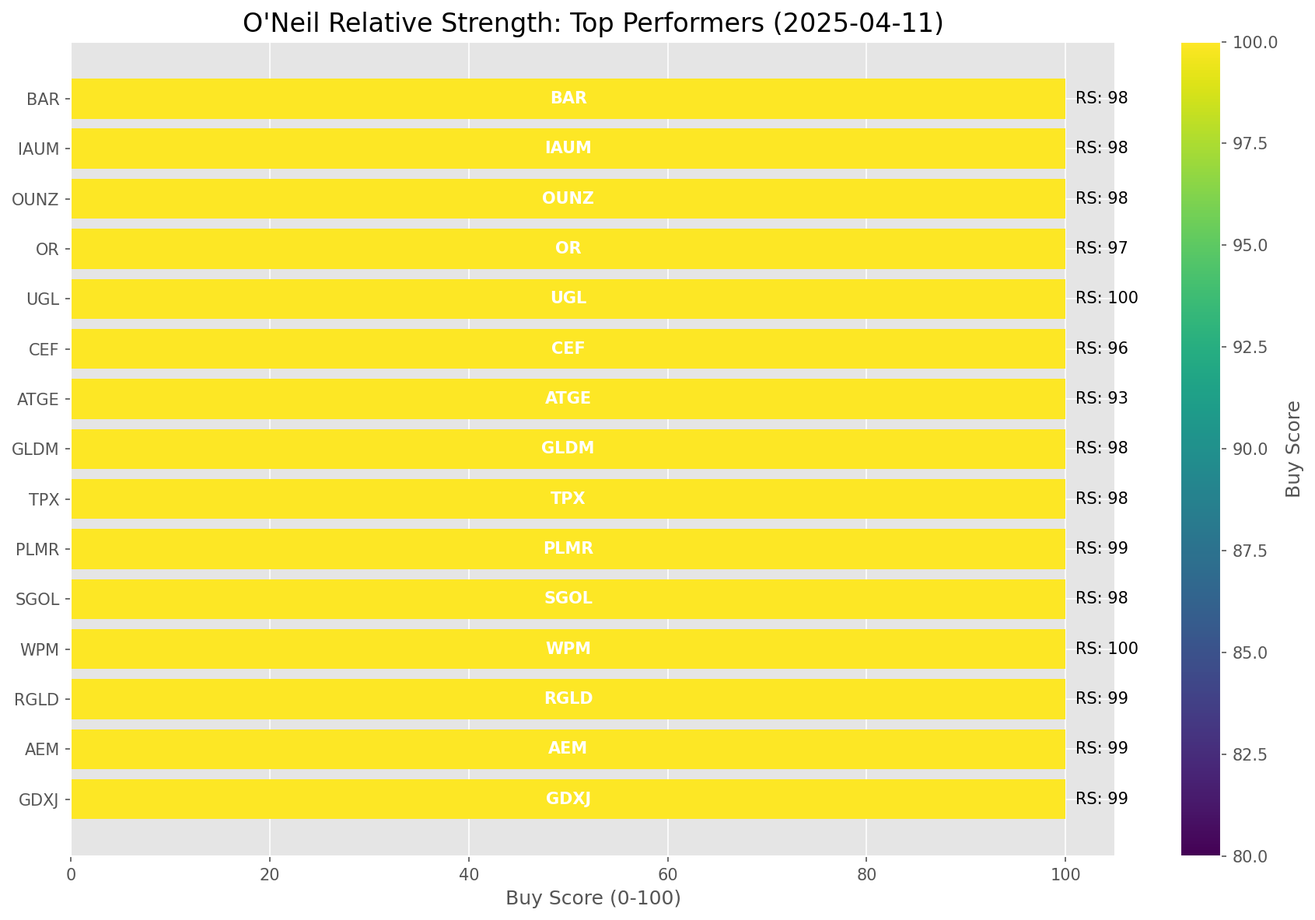
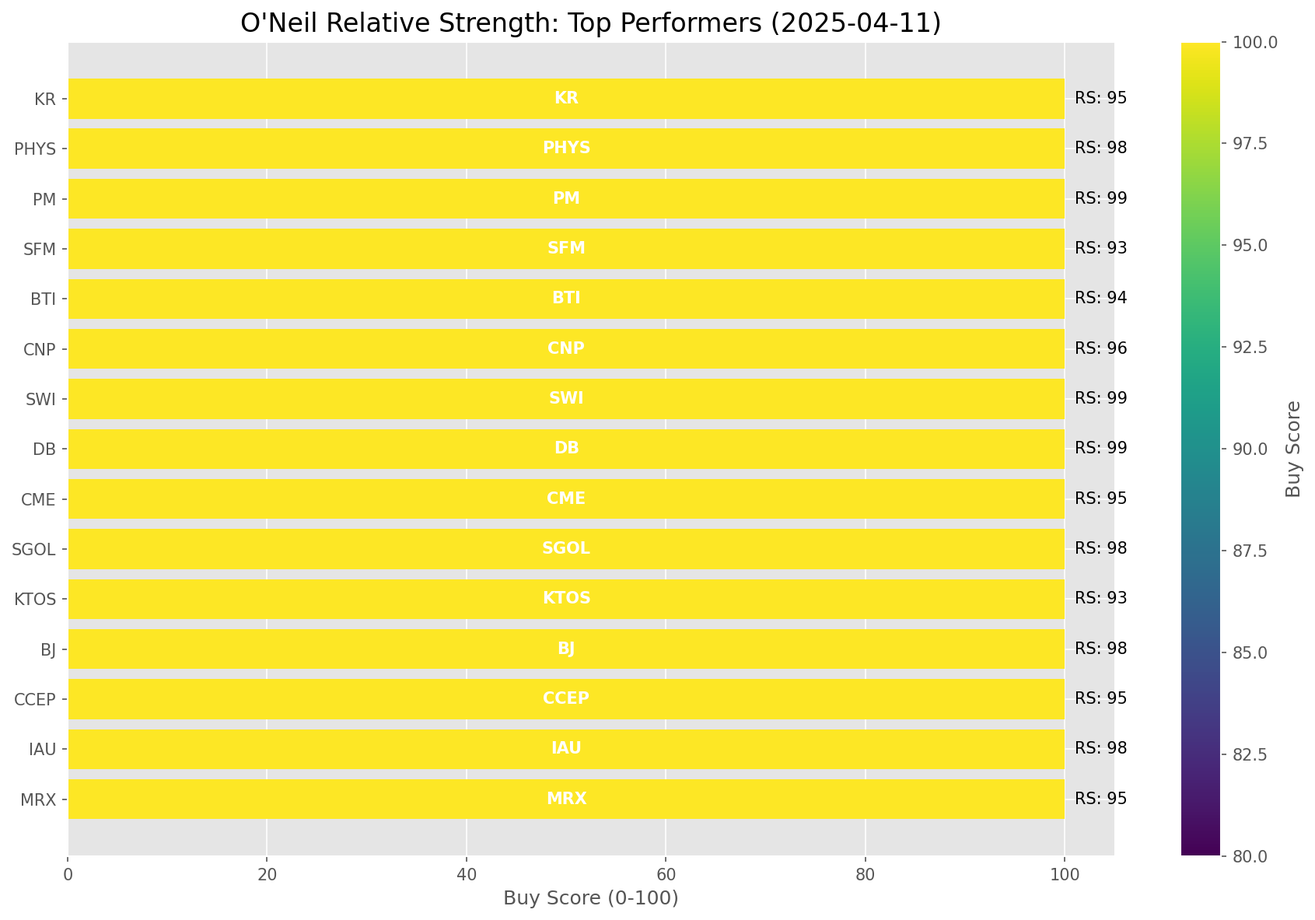
Add market report for 2025-04-11

diff --git a/oneil_relative_strength_report_2025-04-11.md b/oneil_relative_strength_report_2025-04-11.md
@@ -9,11 +9,11 @@
 | Metric | Value |
 |--------|-------|
 | **Market Valuation** | **Significantly Undervalued** |
-| **Current Ratio** | 8.60 |
+| **Current Ratio** | 8.70 |
 | **Historical Mean** | 9.69 |
 | **Standard Deviation** | 0.44 |
 | **Z-Score (StdDev from Mean)** | -2.33 |
-| **Total Market Cap** | $255.69 trillion |
+| **Total Market Cap** | $258.71 trillion |
 | **GDP** | $29.72 trillion |
 
 ## **Market Insights**
@@ -49,41 +49,41 @@ Based on William O'Neil's Relative Strength Methodology
 
 | ETF | Strength | RS Rating | Performance | Above Key MAs | Trend | Sector |
 |-----|----------|-----------|-------------|--------------|-------|--------|
-| [GLD](https://www.tradingview.com/chart/?symbol=GLD) | 99.0 | 98.0 | 21.38% | 10d ✓, 50d ✓, 200d ✓ | ↗ | Gold |
-| [SLV](https://www.tradingview.com/chart/?symbol=SLV) | 85.6 | 91.0 | 6.78% | 10d ✓, 50d ✗, 200d ✓ | ↗ | Silver |
-| [DBA](https://www.tradingview.com/chart/?symbol=DBA) | 68.2 | 76.0 | -1.36% | 10d ✗, 50d ✗, 200d ✓ | ↗ | Agriculture |
-| [KWEB](https://www.tradingview.com/chart/?symbol=KWEB) | 64.5 | 89.0 | 4.70% | 10d ✗, 50d ✗, 200d ✗ | ↗ | Chinese Internet |
-| [CIBR](https://www.tradingview.com/chart/?symbol=CIBR) | 63.9 | 68.0 | -4.71% | 10d ✓, 50d ✗, 200d ✗ | ↗ | Cybersecurity |
-| [XLP](https://www.tradingview.com/chart/?symbol=XLP) | 63.0 | 86.0 | 2.31% | 10d ✗, 50d ✗, 200d ✗ | ↗ | Consumer Staples |
-| [XLU](https://www.tradingview.com/chart/?symbol=XLU) | 57.5 | 75.0 | -1.80% | 10d ✗, 50d ✗, 200d ✗ | ↗ | Utilities |
-| [IYZ](https://www.tradingview.com/chart/?symbol=IYZ) | 54.0 | 68.0 | -5.13% | 10d ✗, 50d ✗, 200d ✗ | ↗ | Telecommunications |
-| [XLF](https://www.tradingview.com/chart/?symbol=XLF) | 53.0 | 66.0 | -5.92% | 10d ✗, 50d ✗, 200d ✗ | ↗ | Financial |
-| [IYR](https://www.tradingview.com/chart/?symbol=IYR) | 53.0 | 66.0 | -6.20% | 10d ✗, 50d ✗, 200d ✗ | ↗ | Real Estate |
-| [UUP](https://www.tradingview.com/chart/?symbol=UUP) | 51.5 | 63.0 | -7.21% | 10d ✗, 50d ✗, 200d ✗ | ↗ | U.S. Dollar |
-| [XLC](https://www.tradingview.com/chart/?symbol=XLC) | 51.0 | 62.0 | -7.61% | 10d ✗, 50d ✗, 200d ✗ | ↗ | Communications |
-| [XLI](https://www.tradingview.com/chart/?symbol=XLI) | 51.0 | 62.0 | -7.68% | 10d ✗, 50d ✗, 200d ✗ | ↗ | Industrial |
-| [BIL](https://www.tradingview.com/chart/?symbol=BIL) | 50.4 | 81.0 | 0.04% | 10d ✓, 50d ✗, 200d ✗ | ↘ | Short-term Treasuries |
-| [PAVE](https://www.tradingview.com/chart/?symbol=PAVE) | 43.5 | 47.0 | -12.95% | 10d ✗, 50d ✗, 200d ✗ | ↗ | Infrastructure |
-| [AIQ](https://www.tradingview.com/chart/?symbol=AIQ) | 43.0 | 46.0 | -13.62% | 10d ✗, 50d ✗, 200d ✗ | ↗ | Artificial Intelligence & Technology |
-| [IYT](https://www.tradingview.com/chart/?symbol=IYT) | 41.0 | 42.0 | -15.05% | 10d ✗, 50d ✗, 200d ✗ | ↗ | Transportation |
+| [GLD](https://www.tradingview.com/chart/?symbol=GLD) | 99.0 | 98.0 | 21.59% | 10d ✓, 50d ✓, 200d ✓ | ↗ | Gold |
+| [SLV](https://www.tradingview.com/chart/?symbol=SLV) | 85.1 | 90.0 | 6.97% | 10d ✓, 50d ✗, 200d ✓ | ↗ | Silver |
+| [XLP](https://www.tradingview.com/chart/?symbol=XLP) | 72.9 | 86.0 | 3.33% | 10d ✓, 50d ✗, 200d ✗ | ↗ | Consumer Staples |
+| [DBA](https://www.tradingview.com/chart/?symbol=DBA) | 68.2 | 76.0 | -1.06% | 10d ✗, 50d ✗, 200d ✓ | ↗ | Agriculture |
+| [CIBR](https://www.tradingview.com/chart/?symbol=CIBR) | 64.4 | 69.0 | -3.96% | 10d ✓, 50d ✗, 200d ✗ | ↗ | Cybersecurity |
+| [IYZ](https://www.tradingview.com/chart/?symbol=IYZ) | 64.2 | 68.0 | -4.35% | 10d ✗, 50d ✗, 200d ✓ | ↗ | Telecommunications |
+| [KWEB](https://www.tradingview.com/chart/?symbol=KWEB) | 64.0 | 88.0 | 5.18% | 10d ✗, 50d ✗, 200d ✗ | ↗ | Chinese Internet |
+| [XLU](https://www.tradingview.com/chart/?symbol=XLU) | 58.5 | 77.0 | -0.54% | 10d ✗, 50d ✗, 200d ✗ | ↗ | Utilities |
+| [IYR](https://www.tradingview.com/chart/?symbol=IYR) | 53.5 | 67.0 | -5.02% | 10d ✗, 50d ✗, 200d ✗ | ↗ | Real Estate |
+| [XLF](https://www.tradingview.com/chart/?symbol=XLF) | 53.5 | 67.0 | -5.02% | 10d ✗, 50d ✗, 200d ✗ | ↗ | Financial |
+| [XLI](https://www.tradingview.com/chart/?symbol=XLI) | 51.0 | 62.0 | -6.79% | 10d ✗, 50d ✗, 200d ✗ | ↗ | Industrial |
+| [XLC](https://www.tradingview.com/chart/?symbol=XLC) | 51.0 | 62.0 | -6.76% | 10d ✗, 50d ✗, 200d ✗ | ↗ | Communications |
+| [UUP](https://www.tradingview.com/chart/?symbol=UUP) | 50.5 | 61.0 | -7.19% | 10d ✗, 50d ✗, 200d ✗ | ↗ | U.S. Dollar |
+| [BIL](https://www.tradingview.com/chart/?symbol=BIL) | 49.4 | 79.0 | 0.03% | 10d ✓, 50d ✗, 200d ✗ | ↘ | Short-term Treasuries |
+| [PAVE](https://www.tradingview.com/chart/?symbol=PAVE) | 44.0 | 48.0 | -12.21% | 10d ✗, 50d ✗, 200d ✗ | ↗ | Infrastructure |
+| [AIQ](https://www.tradingview.com/chart/?symbol=AIQ) | 43.0 | 46.0 | -12.80% | 10d ✗, 50d ✗, 200d ✗ | ↗ | Artificial Intelligence & Technology |
+| [TLT](https://www.tradingview.com/chart/?symbol=TLT) | 40.0 | 80.0 | 0.08% | 10d ✗, 50d ✗, 200d ✗ | ↘ | Long-term Treasuries |
+| [IYT](https://www.tradingview.com/chart/?symbol=IYT) | 40.0 | 40.0 | -15.05% | 10d ✗, 50d ✗, 200d ✗ | ↗ | Transportation |
 | [ARKF](https://www.tradingview.com/chart/?symbol=ARKF) | 39.0 | 38.0 | -16.38% | 10d ✗, 50d ✗, 200d ✗ | ↗ | Fintech Innovation |
-| [TLT](https://www.tradingview.com/chart/?symbol=TLT) | 38.5 | 77.0 | -0.94% | 10d ✗, 50d ✗, 200d ✗ | ↘ | Long-term Treasuries |
-| [XLY](https://www.tradingview.com/chart/?symbol=XLY) | 38.0 | 36.0 | -17.24% | 10d ✗, 50d ✗, 200d ✗ | ↗ | Consumer Discretionary |
-| [XLK](https://www.tradingview.com/chart/?symbol=XLK) | 38.0 | 36.0 | -17.27% | 10d ✗, 50d ✗, 200d ✗ | ↗ | Technology |
-| [DBC](https://www.tradingview.com/chart/?symbol=DBC) | 35.0 | 70.0 | -4.08% | 10d ✗, 50d ✗, 200d ✗ | ↘ | Commodities |
-| [ARKW](https://www.tradingview.com/chart/?symbol=ARKW) | 35.0 | 30.0 | -20.02% | 10d ✗, 50d ✗, 200d ✗ | ↗ | Next Generation Internet |
-| [XLV](https://www.tradingview.com/chart/?symbol=XLV) | 34.5 | 69.0 | -4.42% | 10d ✗, 50d ✗, 200d ✗ | ↘ | Healthcare |
-| [ICLN](https://www.tradingview.com/chart/?symbol=ICLN) | 34.5 | 69.0 | -4.60% | 10d ✗, 50d ✗, 200d ✗ | ↘ | Clean Energy |
-| [BLOK](https://www.tradingview.com/chart/?symbol=BLOK) | 34.0 | 28.0 | -20.87% | 10d ✗, 50d ✗, 200d ✗ | ↗ | Blockchain & Cryptocurrency |
-| [XLB](https://www.tradingview.com/chart/?symbol=XLB) | 31.5 | 63.0 | -6.97% | 10d ✗, 50d ✗, 200d ✗ | ↘ | Materials |
-| [ARKK](https://www.tradingview.com/chart/?symbol=ARKK) | 30.0 | 20.0 | -25.30% | 10d ✗, 50d ✗, 200d ✗ | ↗ | Innovation |
-| [JETS](https://www.tradingview.com/chart/?symbol=JETS) | 28.0 | 16.0 | -28.89% | 10d ✗, 50d ✗, 200d ✗ | ↗ | Airlines |
-| [URA](https://www.tradingview.com/chart/?symbol=URA) | 24.4 | 29.0 | -20.65% | 10d ✓, 50d ✗, 200d ✗ | ↘ | Uranium |
-| [XLE](https://www.tradingview.com/chart/?symbol=XLE) | 22.5 | 45.0 | -13.71% | 10d ✗, 50d ✗, 200d ✗ | ↘ | Energy |
-| [ARKG](https://www.tradingview.com/chart/?symbol=ARKG) | 22.4 | 25.0 | -22.53% | 10d ✓, 50d ✗, 200d ✗ | ↘ | Genomics |
-| [IBB](https://www.tradingview.com/chart/?symbol=IBB) | 19.5 | 39.0 | -16.01% | 10d ✗, 50d ✗, 200d ✗ | ↘ | Biotechnology |
-| [ITB](https://www.tradingview.com/chart/?symbol=ITB) | 19.0 | 38.0 | -16.48% | 10d ✗, 50d ✗, 200d ✗ | ↘ | Home Construction |
-| [SOXX](https://www.tradingview.com/chart/?symbol=SOXX) | 10.0 | 20.0 | -25.51% | 10d ✗, 50d ✗, 200d ✗ | ↘ | Semiconductors |
+| [XLK](https://www.tradingview.com/chart/?symbol=XLK) | 39.0 | 38.0 | -16.29% | 10d ✗, 50d ✗, 200d ✗ | ↗ | Technology |
+| [XLY](https://www.tradingview.com/chart/?symbol=XLY) | 38.5 | 37.0 | -16.53% | 10d ✗, 50d ✗, 200d ✗ | ↗ | Consumer Discretionary |
+| [DBC](https://www.tradingview.com/chart/?symbol=DBC) | 35.0 | 70.0 | -3.64% | 10d ✗, 50d ✗, 200d ✗ | ↘ | Commodities |
+| [BLOK](https://www.tradingview.com/chart/?symbol=BLOK) | 35.0 | 30.0 | -19.93% | 10d ✗, 50d ✗, 200d ✗ | ↗ | Blockchain & Cryptocurrency |
+| [XLV](https://www.tradingview.com/chart/?symbol=XLV) | 35.0 | 70.0 | -3.57% | 10d ✗, 50d ✗, 200d ✗ | ↘ | Healthcare |
+| [ARKW](https://www.tradingview.com/chart/?symbol=ARKW) | 34.5 | 29.0 | -20.02% | 10d ✗, 50d ✗, 200d ✗ | ↗ | Next Generation Internet |
+| [ICLN](https://www.tradingview.com/chart/?symbol=ICLN) | 34.5 | 69.0 | -3.82% | 10d ✗, 50d ✗, 200d ✗ | ↘ | Clean Energy |
+| [XLB](https://www.tradingview.com/chart/?symbol=XLB) | 32.5 | 65.0 | -5.76% | 10d ✗, 50d ✗, 200d ✗ | ↘ | Materials |
+| [ARKK](https://www.tradingview.com/chart/?symbol=ARKK) | 30.5 | 21.0 | -24.70% | 10d ✗, 50d ✗, 200d ✗ | ↗ | Innovation |
+| [JETS](https://www.tradingview.com/chart/?symbol=JETS) | 28.5 | 17.0 | -27.96% | 10d ✗, 50d ✗, 200d ✗ | ↗ | Airlines |
+| [URA](https://www.tradingview.com/chart/?symbol=URA) | 24.9 | 30.0 | -19.58% | 10d ✓, 50d ✗, 200d ✗ | ↘ | Uranium |
+| [XLE](https://www.tradingview.com/chart/?symbol=XLE) | 23.5 | 47.0 | -12.44% | 10d ✗, 50d ✗, 200d ✗ | ↘ | Energy |
+| [ARKG](https://www.tradingview.com/chart/?symbol=ARKG) | 22.4 | 25.0 | -21.98% | 10d ✓, 50d ✗, 200d ✗ | ↘ | Genomics |
+| [ITB](https://www.tradingview.com/chart/?symbol=ITB) | 20.0 | 40.0 | -15.23% | 10d ✗, 50d ✗, 200d ✗ | ↘ | Home Construction |
+| [IBB](https://www.tradingview.com/chart/?symbol=IBB) | 20.0 | 40.0 | -15.33% | 10d ✗, 50d ✗, 200d ✗ | ↘ | Biotechnology |
+| [SOXX](https://www.tradingview.com/chart/?symbol=SOXX) | 10.5 | 21.0 | -24.46% | 10d ✗, 50d ✗, 200d ✗ | ↘ | Semiconductors |
 
 ### **Sector ETF Performance Interpretation**
 
@@ -98,116 +98,136 @@ This table shows the relative strength metrics for different market sectors base
 
 ### **Current Sector Leadership**
 
-The current market leadership is coming from the following sectors: **Gold, Silver, Agriculture**.
+The current market leadership is coming from the following sectors: **Gold, Silver, Consumer Staples**.
 
-The **Gold** sector (represented by **GLD**) is showing particularly strong relative strength with an RS rating of 98.0 and performance of 21.38% vs. the S&P 500. This sector is trading above its 10-day, 50-day, 200-day moving average(s). Investors should consider focusing on high RS stocks within these leading sectors for potential outperformance.
+The **Gold** sector (represented by **GLD**) is showing particularly strong relative strength with an RS rating of 98.0 and performance of 21.59% vs. the S&P 500. This sector is trading above its 10-day, 50-day, 200-day moving average(s). Investors should consider focusing on high RS stocks within these leading sectors for potential outperformance.
 
 ---
 
 ## **Buy Recommendations**
 
-The following 41 stocks show exceptional relative strength:
+The following 58 stocks show exceptional relative strength:
 
 | RS Rating | Buy Score | Current Price | Chart | Name | Ticker |
 |-----------|-----------|---------------|-------|------|--------|
-| 100 | 100 | $81.64 | [Chart](https://www.tradingview.com/chart/?symbol=WPM) | Wheaton Precious Metals Corp. Common Stock | WPM |
-| 100 | 100 | $136.26 | [Chart](https://www.tradingview.com/chart/?symbol=UGL) | ProShares Ultra Gold | UGL |
-| 100 | 100 | $29.03 | [Chart](https://www.tradingview.com/chart/?symbol=AGI) | Alamos Gold Inc. Class A Common Shares | AGI |
-| 99 | 100 | $60.42 | [Chart](https://www.tradingview.com/chart/?symbol=GDXJ) | VanEck Junior Gold Miners ETF | GDXJ |
-| 99 | 100 | $115.11 | [Chart](https://www.tradingview.com/chart/?symbol=AEM) | Agnico Eagle Mines Ltd. | AEM |
-| 99 | 100 | $177.30 | [Chart](https://www.tradingview.com/chart/?symbol=RGLD) | Royal Gold Inc | RGLD |
+| 100 | 100 | $136.77 | [Chart](https://www.tradingview.com/chart/?symbol=UGL) | ProShares Ultra Gold | UGL |
+| 100 | 100 | $29.26 | [Chart](https://www.tradingview.com/chart/?symbol=AGI) | Alamos Gold Inc. Class A Common Shares | AGI |
+| 100 | 100 | $82.32 | [Chart](https://www.tradingview.com/chart/?symbol=WPM) | Wheaton Precious Metals Corp. Common Stock | WPM |
+| 99 | 100 | $22.07 | [Chart](https://www.tradingview.com/chart/?symbol=DB) | Deutsche Bank Aktiengesellschaft | DB |
+| 99 | 100 | $18.47 | [Chart](https://www.tradingview.com/chart/?symbol=SWI) | SolarWinds Corporation Common Stock | SWI |
+| 99 | 100 | $154.64 | [Chart](https://www.tradingview.com/chart/?symbol=PM) | Philip Morris International Inc. | PM |
+| 99 | 100 | $117.45 | [Chart](https://www.tradingview.com/chart/?symbol=AEM) | Agnico Eagle Mines Ltd. | AEM |
+| 99 | 100 | $61.05 | [Chart](https://www.tradingview.com/chart/?symbol=GDXJ) | VanEck Junior Gold Miners ETF | GDXJ |
 | 99 | 100 | $142.99 | [Chart](https://www.tradingview.com/chart/?symbol=PLMR) | Palomar Holdings, Inc. Common stock | PLMR |
-| 99 | 100 | $18.48 | [Chart](https://www.tradingview.com/chart/?symbol=SWI) | SolarWinds Corporation Common Stock | SWI |
-| 99 | 100 | $15.51 | [Chart](https://www.tradingview.com/chart/?symbol=EZPW) | Ezcorp Inc | EZPW |
-| 98 | 100 | $30.89 | [Chart](https://www.tradingview.com/chart/?symbol=SGOL) | abrdn Physical Gold Shares ETF | SGOL |
-| 98 | 100 | $64.11 | [Chart](https://www.tradingview.com/chart/?symbol=GLDM) | SPDR Gold MiniShares | GLDM |
-| 98 | 100 | $31.20 | [Chart](https://www.tradingview.com/chart/?symbol=OUNZ) | VanEck Merk Gold ETF | OUNZ |
-| 98 | 100 | $32.28 | [Chart](https://www.tradingview.com/chart/?symbol=IAUM) | iShares Gold Trust Micro | IAUM |
-| 98 | 100 | $31.93 | [Chart](https://www.tradingview.com/chart/?symbol=BAR) | GraniteShares Gold Shares | BAR |
-| 98 | 100 | $61.06 | [Chart](https://www.tradingview.com/chart/?symbol=IAU) | iShares Gold Trust | IAU |
-| 98 | 100 | $24.84 | [Chart](https://www.tradingview.com/chart/?symbol=PHYS) | Sprott Physical Gold Trust | PHYS |
-| 98 | 100 | $115.61 | [Chart](https://www.tradingview.com/chart/?symbol=BJ) | BJs Wholesale Club Holdings, Inc. Common Stock | BJ |
-| 98 | 100 | $298.42 | [Chart](https://www.tradingview.com/chart/?symbol=GLD) | SPDR Gold Trust, SPDR Gold Shares | GLD |
-| 97 | 100 | $22.11 | [Chart](https://www.tradingview.com/chart/?symbol=OR) | Osisko Gold Royalties Ltd | OR |
-| 96 | 100 | $28.66 | [Chart](https://www.tradingview.com/chart/?symbol=CEF) | Sprott Physical Gold and Silver Trust | CEF |
-| 96 | 100 | $21.68 | [Chart](https://www.tradingview.com/chart/?symbol=SRAD) | Sportradar Group AG Class A Ordinary Shares | SRAD |
-| 95 | 100 | $86.06 | [Chart](https://www.tradingview.com/chart/?symbol=CCEP) | Coca-Cola Europacific Partners plc Ordinary Shares | CCEP |
-| 95 | 100 | $37.22 | [Chart](https://www.tradingview.com/chart/?symbol=MRX) | Marex Group plc Ordinary Shares | MRX |
-| 95 | 100 | $262.04 | [Chart](https://www.tradingview.com/chart/?symbol=CME) | CME Group Inc. | CME |
-| 94 | 100 | $41.14 | [Chart](https://www.tradingview.com/chart/?symbol=BTI) | British American Tobacco p.l.c. American Depositary Shares, American Depositary Shares, each representing one Ordinary Share | BTI |
-| 94 | 100 | $438.01 | [Chart](https://www.tradingview.com/chart/?symbol=CASY) | Casey's General Stores Inc | CASY |
+| 99 | 100 | $179.94 | [Chart](https://www.tradingview.com/chart/?symbol=RGLD) | Royal Gold Inc | RGLD |
+| 99 | 100 | $15.61 | [Chart](https://www.tradingview.com/chart/?symbol=EZPW) | Ezcorp Inc | EZPW |
+| 98 | 100 | $61.17 | [Chart](https://www.tradingview.com/chart/?symbol=IAU) | iShares Gold Trust | IAU |
+| 98 | 100 | $116.63 | [Chart](https://www.tradingview.com/chart/?symbol=BJ) | BJs Wholesale Club Holdings, Inc. Common Stock | BJ |
+| 98 | 100 | $30.94 | [Chart](https://www.tradingview.com/chart/?symbol=SGOL) | abrdn Physical Gold Shares ETF | SGOL |
+| 98 | 100 | $24.86 | [Chart](https://www.tradingview.com/chart/?symbol=PHYS) | Sprott Physical Gold Trust | PHYS |
+| 98 | 100 | $31.99 | [Chart](https://www.tradingview.com/chart/?symbol=BAR) | GraniteShares Gold Shares | BAR |
+| 98 | 100 | $32.34 | [Chart](https://www.tradingview.com/chart/?symbol=IAUM) | iShares Gold Trust Micro | IAUM |
+| 98 | 100 | $64.22 | [Chart](https://www.tradingview.com/chart/?symbol=GLDM) | SPDR Gold MiniShares | GLDM |
+| 98 | 100 | $298.93 | [Chart](https://www.tradingview.com/chart/?symbol=GLD) | SPDR Gold Trust, SPDR Gold Shares | GLD |
+| 98 | 100 | $31.27 | [Chart](https://www.tradingview.com/chart/?symbol=OUNZ) | VanEck Merk Gold ETF | OUNZ |
+| 97 | 100 | $259.86 | [Chart](https://www.tradingview.com/chart/?symbol=TMUS) | T-Mobile US, Inc. | TMUS |
+| 97 | 100 | $45.59 | [Chart](https://www.tradingview.com/chart/?symbol=EXC) | Exelon Corporation | EXC |
+| 97 | 100 | $22.30 | [Chart](https://www.tradingview.com/chart/?symbol=OR) | Osisko Gold Royalties Ltd | OR |
+| 96 | 100 | $36.33 | [Chart](https://www.tradingview.com/chart/?symbol=CNP) | CenterPoint Energy, Inc. | CNP |
+| 96 | 100 | $330.43 | [Chart](https://www.tradingview.com/chart/?symbol=AJG) | Arthur J. Gallagher & Co. | AJG |
+| 96 | 100 | $72.02 | [Chart](https://www.tradingview.com/chart/?symbol=RYAN) | Ryan Specialty Holdings, Inc. | RYAN |
+| 96 | 100 | $28.73 | [Chart](https://www.tradingview.com/chart/?symbol=CEF) | Sprott Physical Gold and Silver Trust | CEF |
+| 96 | 100 | $241.76 | [Chart](https://www.tradingview.com/chart/?symbol=RSG) | Republic Services Inc. | RSG |
+| 96 | 100 | $21.73 | [Chart](https://www.tradingview.com/chart/?symbol=SRAD) | Sportradar Group AG Class A Ordinary Shares | SRAD |
+| 95 | 100 | $37.62 | [Chart](https://www.tradingview.com/chart/?symbol=MRX) | Marex Group plc Ordinary Shares | MRX |
+| 95 | 100 | $86.41 | [Chart](https://www.tradingview.com/chart/?symbol=CCEP) | Coca-Cola Europacific Partners plc Ordinary Shares | CCEP |
+| 95 | 100 | $263.05 | [Chart](https://www.tradingview.com/chart/?symbol=CME) | CME Group Inc. | CME |
+| 95 | 100 | $67.71 | [Chart](https://www.tradingview.com/chart/?symbol=KR) | The Kroger Co. | KR |
+| 95 | 100 | $52.60 | [Chart](https://www.tradingview.com/chart/?symbol=PPC) | Pilgrims Pride Corporation | PPC |
+| 95 | 100 | $23.80 | [Chart](https://www.tradingview.com/chart/?symbol=PRVA) | Privia Health Group, Inc. Common Stock | PRVA |
+| 95 | 100 | $208.80 | [Chart](https://www.tradingview.com/chart/?symbol=TTWO) | Take-Two Interactive Software Inc | TTWO |
+| 95 | 100 | $447.13 | [Chart](https://www.tradingview.com/chart/?symbol=CASY) | Casey's General Stores Inc | CASY |
+| 95 | 100 | $518.04 | [Chart](https://www.tradingview.com/chart/?symbol=BRK.B) | BERKSHIRE HATHAWAY Class B | BRK.B |
+| 94 | 100 | $41.62 | [Chart](https://www.tradingview.com/chart/?symbol=BTI) | British American Tobacco p.l.c. American Depositary Shares, American Depositary Shares, each representing one Ordinary Share | BTI |
+| 94 | 100 | $106.34 | [Chart](https://www.tradingview.com/chart/?symbol=WEC) | WEC Energy Group, Inc. | WEC |
+| 94 | 100 | $273.67 | [Chart](https://www.tradingview.com/chart/?symbol=PGR) | Progressive Corporation | PGR |
+| 93 | 100 | $32.09 | [Chart](https://www.tradingview.com/chart/?symbol=KTOS) | Kratos Defense & Security Solutions, Inc. | KTOS |
+| 93 | 100 | $153.96 | [Chart](https://www.tradingview.com/chart/?symbol=SFM) | Sprouts Farmers Market, Inc. | SFM |
+| 93 | 100 | $80.39 | [Chart](https://www.tradingview.com/chart/?symbol=FAST) | Fastenal Co | FAST |
 | 93 | 100 | $102.78 | [Chart](https://www.tradingview.com/chart/?symbol=ATGE) | Adtalem Global Education Inc. Common Shares | ATGE |
-| 93 | 100 | $79.78 | [Chart](https://www.tradingview.com/chart/?symbol=FAST) | Fastenal Co | FAST |
-| 93 | 100 | $31.78 | [Chart](https://www.tradingview.com/chart/?symbol=KTOS) | Kratos Defense & Security Solutions, Inc. | KTOS |
-| 93 | 100 | $153.59 | [Chart](https://www.tradingview.com/chart/?symbol=SFM) | Sprouts Farmers Market, Inc. | SFM |
-| 92 | 100 | $101.10 | [Chart](https://www.tradingview.com/chart/?symbol=EHC) | Encompass Health Corporation Common Stock | EHC |
-| 89 | 100 | $44.75 | [Chart](https://www.tradingview.com/chart/?symbol=MRCY) | Mercury Systems Inc. | MRCY |
-| 89 | 100 | $47.04 | [Chart](https://www.tradingview.com/chart/?symbol=GFL) | GFL Environmental Inc. Subordinate Voting Shares | GFL |
-| 87 | 100 | $17.89 | [Chart](https://www.tradingview.com/chart/?symbol=GRND) | Grindr Inc. | GRND |
-| 87 | 97 | $126.29 | [Chart](https://www.tradingview.com/chart/?symbol=TJX) | TJX Companies, Inc. (The) | TJX |
-| 85 | 97 | $33.91 | [Chart](https://www.tradingview.com/chart/?symbol=DRS) | Leonardo DRS, Inc. Common Stock | DRS |
-| 85 | 97 | $22.48 | [Chart](https://www.tradingview.com/chart/?symbol=ATSG) | Air Transport Services Group, Inc. | ATSG |
-| 84 | 97 | $111.65 | [Chart](https://www.tradingview.com/chart/?symbol=BOXX) | Alpha Architect 1-3 Month Box ETF | BOXX |
-| 85 | 96 | $35.90 | [Chart](https://www.tradingview.com/chart/?symbol=FYBR) | Frontier Communications Parent, Inc. Common Stock | FYBR |
-| 85 | 96 | $73.85 | [Chart](https://www.tradingview.com/chart/?symbol=BRBR) | BellRing Brands, Inc. | BRBR |
-| 84 | 94 | $22.48 | [Chart](https://www.tradingview.com/chart/?symbol=PYCR) | Paycor HCM, Inc. Common Stock | PYCR |
+| 93 | 100 | $102.15 | [Chart](https://www.tradingview.com/chart/?symbol=EHC) | Encompass Health Corporation Common Stock | EHC |
+| 89 | 100 | $47.38 | [Chart](https://www.tradingview.com/chart/?symbol=GFL) | GFL Environmental Inc. Subordinate Voting Shares | GFL |
+| 87 | 100 | $18.02 | [Chart](https://www.tradingview.com/chart/?symbol=GRND) | Grindr Inc. | GRND |
+| 87 | 98 | $111.58 | [Chart](https://www.tradingview.com/chart/?symbol=CWST) | Casella Waste Systems Inc | CWST |
+| 86 | 98 | $34.32 | [Chart](https://www.tradingview.com/chart/?symbol=DRS) | Leonardo DRS, Inc. Common Stock | DRS |
+| 86 | 98 | $45.40 | [Chart](https://www.tradingview.com/chart/?symbol=MRCY) | Mercury Systems Inc. | MRCY |
+| 87 | 97 | $127.45 | [Chart](https://www.tradingview.com/chart/?symbol=TJX) | TJX Companies, Inc. (The) | TJX |
+| 85 | 96 | $74.41 | [Chart](https://www.tradingview.com/chart/?symbol=BRBR) | BellRing Brands, Inc. | BRBR |
+| 84 | 96 | $22.48 | [Chart](https://www.tradingview.com/chart/?symbol=ATSG) | Air Transport Services Group, Inc. | ATSG |
+| 84 | 95 | $35.89 | [Chart](https://www.tradingview.com/chart/?symbol=FYBR) | Frontier Communications Parent, Inc. Common Stock | FYBR |
+| 82 | 95 | $111.64 | [Chart](https://www.tradingview.com/chart/?symbol=BOXX) | Alpha Architect 1-3 Month Box ETF | BOXX |
+| 83 | 93 | $22.48 | [Chart](https://www.tradingview.com/chart/?symbol=PYCR) | Paycor HCM, Inc. Common Stock | PYCR |
+| 80 | 90 | $58.02 | [Chart](https://www.tradingview.com/chart/?symbol=RYTM) | Rhythm Pharmaceuticals, Inc. Common Stock | RYTM |
 
 ---
 
 
 ## **Sell Recommendations**
 
-The following 47 stocks show deteriorating relative strength:
+The following 50 stocks show deteriorating relative strength:
 
 | RS Rating | Sell Score | Current Price | Chart | Name | Ticker |
 |-----------|------------|---------------|-------|------|--------|
-| 1 | 100 | $64.01 | [Chart](https://www.tradingview.com/chart/?symbol=PI) | Impinj, Inc. Common Stock | PI |
-| 4 | 100 | $18.75 | [Chart](https://www.tradingview.com/chart/?symbol=DJT) | Trump Media & Technology Group Corp. Common Stock | DJT |
-| 5 | 100 | $11.28 | [Chart](https://www.tradingview.com/chart/?symbol=GCT) | GigaCloud Technology Inc Class A Ordinary Shares | GCT |
-| 5 | 100 | $33.53 | [Chart](https://www.tradingview.com/chart/?symbol=HELE) | Helen Of Troy Ltd | HELE |
+| 1 | 100 | $63.91 | [Chart](https://www.tradingview.com/chart/?symbol=PI) | Impinj, Inc. Common Stock | PI |
+| 3 | 100 | $18.68 | [Chart](https://www.tradingview.com/chart/?symbol=DJT) | Trump Media & Technology Group Corp. Common Stock | DJT |
+| 5 | 100 | $11.31 | [Chart](https://www.tradingview.com/chart/?symbol=GCT) | GigaCloud Technology Inc Class A Ordinary Shares | GCT |
+| 5 | 100 | $33.72 | [Chart](https://www.tradingview.com/chart/?symbol=HELE) | Helen Of Troy Ltd | HELE |
 | 8 | 100 | $10.10 | [Chart](https://www.tradingview.com/chart/?symbol=CGEM) | Cullinan Therapeutics, Inc. Common Stock | CGEM |
-| 11 | 100 | $42.05 | [Chart](https://www.tradingview.com/chart/?symbol=EDU) | New Oriental Education and Technology Group, Inc. American Depositary Shares (each representing ten (10) Common Shares) | EDU |
+| 11 | 100 | $42.23 | [Chart](https://www.tradingview.com/chart/?symbol=EDU) | New Oriental Education and Technology Group, Inc. American Depositary Shares (each representing ten (10) Common Shares) | EDU |
 | 13 | 100 | $27.24 | [Chart](https://www.tradingview.com/chart/?symbol=SRDX) | Surmodics, Inc. Common Stock | SRDX |
-| 13 | 99 | $18.84 | [Chart](https://www.tradingview.com/chart/?symbol=ST) | Sensata Technologies Holding plc | ST |
-| 14 | 97 | $48.38 | [Chart](https://www.tradingview.com/chart/?symbol=ENPH) | Enphase Energy, Inc. | ENPH |
-| 8 | 94 | $12.30 | [Chart](https://www.tradingview.com/chart/?symbol=DV) | DoubleVerify Holdings, Inc. | DV |
-| 16 | 93 | $11.78 | [Chart](https://www.tradingview.com/chart/?symbol=AEYE) | AudioEye, Inc. Common Stock | AEYE |
-| 15 | 92 | $47.35 | [Chart](https://www.tradingview.com/chart/?symbol=RHI) | Robert Half Inc. | RHI |
-| 11 | 91 | $12.09 | [Chart](https://www.tradingview.com/chart/?symbol=MARA) | MARA Holdings, Inc. Common Stock | MARA |
-| 17 | 91 | $324.64 | [Chart](https://www.tradingview.com/chart/?symbol=SAIA) | Saia, Inc. | SAIA |
-| 15 | 90 | $19.42 | [Chart](https://www.tradingview.com/chart/?symbol=HZO) | MarineMax, Inc. | HZO |
-| 26 | 89 | $13.22 | [Chart](https://www.tradingview.com/chart/?symbol=FXN) | First Trust Energy AlphaDEX Fund | FXN |
-| 28 | 89 | $10.03 | [Chart](https://www.tradingview.com/chart/?symbol=MTAL) | MAC Copper Limited | MTAL |
+| 13 | 99 | $19.08 | [Chart](https://www.tradingview.com/chart/?symbol=ST) | Sensata Technologies Holding plc | ST |
+| 15 | 96 | $49.12 | [Chart](https://www.tradingview.com/chart/?symbol=ENPH) | Enphase Energy, Inc. | ENPH |
+| 15 | 94 | $11.78 | [Chart](https://www.tradingview.com/chart/?symbol=AEYE) | AudioEye, Inc. Common Stock | AEYE |
+| 15 | 94 | $18.83 | [Chart](https://www.tradingview.com/chart/?symbol=HZO) | MarineMax, Inc. | HZO |
+| 13 | 93 | $58.97 | [Chart](https://www.tradingview.com/chart/?symbol=ASGN) | ASGN Incorporated | ASGN |
+| 19 | 92 | $50.94 | [Chart](https://www.tradingview.com/chart/?symbol=CNMD) | CONMED Corporation | CNMD |
+| 11 | 91 | $12.10 | [Chart](https://www.tradingview.com/chart/?symbol=MARA) | MARA Holdings, Inc. Common Stock | MARA |
+| 15 | 91 | $47.92 | [Chart](https://www.tradingview.com/chart/?symbol=RHI) | Robert Half Inc. | RHI |
+| 25 | 91 | $13.22 | [Chart](https://www.tradingview.com/chart/?symbol=FXN) | First Trust Energy AlphaDEX Fund | FXN |
+| 27 | 90 | $10.03 | [Chart](https://www.tradingview.com/chart/?symbol=MTAL) | MAC Copper Limited | MTAL |
+| 17 | 89 | $10.24 | [Chart](https://www.tradingview.com/chart/?symbol=EXPI) | eXp World Holdings, Inc. Common Stock | EXPI |
+| 18 | 89 | $327.00 | [Chart](https://www.tradingview.com/chart/?symbol=SAIA) | Saia, Inc. | SAIA |
+| 29 | 89 | $13.14 | [Chart](https://www.tradingview.com/chart/?symbol=MED) | Medifast, Inc. | MED |
 | 13 | 88 | $10.01 | [Chart](https://www.tradingview.com/chart/?symbol=VYX) | NCR Voyix Corporation | VYX |
-| 18 | 88 | $10.24 | [Chart](https://www.tradingview.com/chart/?symbol=EXPI) | eXp World Holdings, Inc. Common Stock | EXPI |
-| 30 | 88 | $13.14 | [Chart](https://www.tradingview.com/chart/?symbol=MED) | Medifast, Inc. | MED |
-| 18 | 87 | $16.26 | [Chart](https://www.tradingview.com/chart/?symbol=IART) | Integra LifeSciences Holdings | IART |
-| 23 | 87 | $52.29 | [Chart](https://www.tradingview.com/chart/?symbol=CNMD) | CONMED Corporation | CNMD |
-| 22 | 86 | $26.65 | [Chart](https://www.tradingview.com/chart/?symbol=TAN) | Invesco Solar ETF | TAN |
-| 17 | 84 | $10.31 | [Chart](https://www.tradingview.com/chart/?symbol=VREX) | Varex Imaging Corporation Common Stock | VREX |
-| 24 | 84 | $22.18 | [Chart](https://www.tradingview.com/chart/?symbol=HOG) | Harley-Davidson, Inc. | HOG |
+| 21 | 87 | $21.82 | [Chart](https://www.tradingview.com/chart/?symbol=HOG) | Harley-Davidson, Inc. | HOG |
+| 18 | 86 | $16.39 | [Chart](https://www.tradingview.com/chart/?symbol=IART) | Integra LifeSciences Holdings | IART |
+| 22 | 86 | $26.93 | [Chart](https://www.tradingview.com/chart/?symbol=TAN) | Invesco Solar ETF | TAN |
+| 16 | 85 | $10.31 | [Chart](https://www.tradingview.com/chart/?symbol=VREX) | Varex Imaging Corporation Common Stock | VREX |
+| 24 | 84 | $10.29 | [Chart](https://www.tradingview.com/chart/?symbol=CMP) | Compass Minerals International, Inc. | CMP |
+| 24 | 83 | $10.49 | [Chart](https://www.tradingview.com/chart/?symbol=PEB) | Pebblebrook Hotel Trust | PEB |
 | 18 | 82 | $111.89 | [Chart](https://www.tradingview.com/chart/?symbol=MYRG) | MYR Group, Inc. | MYRG |
-| 22 | 82 | $10.26 | [Chart](https://www.tradingview.com/chart/?symbol=CMP) | Compass Minerals International, Inc. | CMP |
-| 25 | 82 | $10.49 | [Chart](https://www.tradingview.com/chart/?symbol=PEB) | Pebblebrook Hotel Trust | PEB |
+| 23 | 82 | $11.34 | [Chart](https://www.tradingview.com/chart/?symbol=HPK) | HighPeak Energy, Inc. Common Stock | HPK |
 | 22 | 81 | $10.15 | [Chart](https://www.tradingview.com/chart/?symbol=HLIT) | Harmonic Inc | HLIT |
-| 24 | 81 | $11.34 | [Chart](https://www.tradingview.com/chart/?symbol=HPK) | HighPeak Energy, Inc. Common Stock | HPK |
-| 32 | 81 | $74.93 | [Chart](https://www.tradingview.com/chart/?symbol=LEA) | Lear Corporation | LEA |
-| 26 | 80 | $50.66 | [Chart](https://www.tradingview.com/chart/?symbol=HXL) | Hexcel Corporation | HXL |
-| 27 | 80 | $11.12 | [Chart](https://www.tradingview.com/chart/?symbol=RIVN) | Rivian Automotive, Inc. Class A Common Stock | RIVN |
-| 27 | 80 | $10.04 | [Chart](https://www.tradingview.com/chart/?symbol=HTLD) | Heartland Express Inc | HTLD |
-| 32 | 80 | $10.11 | [Chart](https://www.tradingview.com/chart/?symbol=CELC) | Celcuity Inc. Common Stock | CELC |
-| 33 | 76 | $55.35 | [Chart](https://www.tradingview.com/chart/?symbol=BMRN) | BioMarin Pharmaceuticals Inc | BMRN |
-| 28 | 75 | $10.26 | [Chart](https://www.tradingview.com/chart/?symbol=PACS) | PACS Group, Inc. | PACS |
-| 35 | 75 | $10.71 | [Chart](https://www.tradingview.com/chart/?symbol=DBRG) | DigitalBridge Group, Inc. | DBRG |
-| 38 | 75 | $63.57 | [Chart](https://www.tradingview.com/chart/?symbol=TXT) | Textron, Inc. | TXT |
-| 31 | 74 | $134.72 | [Chart](https://www.tradingview.com/chart/?symbol=LSTR) | Landstar System Inc | LSTR |
-| 30 | 73 | $28.18 | [Chart](https://www.tradingview.com/chart/?symbol=TPH) | Tri Pointe Homes, Inc. | TPH |
-| 35 | 70 | $147.44 | [Chart](https://www.tradingview.com/chart/?symbol=ODFL) | Old Dominion Freight Line | ODFL |
-| 38 | 69 | $28.11 | [Chart](https://www.tradingview.com/chart/?symbol=DAR) | DARLING INGREDIENTS INC. | DAR |
-| 33 | 67 | $45.15 | [Chart](https://www.tradingview.com/chart/?symbol=ATI) | ATI Inc. | ATI |
-| 38 | 67 | $10.34 | [Chart](https://www.tradingview.com/chart/?symbol=CMRE) | Costamare Inc. | CMRE |
-| 38 | 67 | $16.74 | [Chart](https://www.tradingview.com/chart/?symbol=CTRI) | Centuri Holdings, Inc. | CTRI |
-| 39 | 64 | $87.80 | [Chart](https://www.tradingview.com/chart/?symbol=XHB) | SPDR S&P Homebuilders ETF | XHB |
+| 26 | 81 | $10.04 | [Chart](https://www.tradingview.com/chart/?symbol=HTLD) | Heartland Express Inc | HTLD |
+| 31 | 81 | $10.11 | [Chart](https://www.tradingview.com/chart/?symbol=CELC) | Celcuity Inc. Common Stock | CELC |
+| 32 | 81 | $75.42 | [Chart](https://www.tradingview.com/chart/?symbol=LEA) | Lear Corporation | LEA |
+| 26 | 80 | $50.84 | [Chart](https://www.tradingview.com/chart/?symbol=HXL) | Hexcel Corporation | HXL |
+| 27 | 79 | $11.18 | [Chart](https://www.tradingview.com/chart/?symbol=RIVN) | Rivian Automotive, Inc. Class A Common Stock | RIVN |
+| 27 | 76 | $10.26 | [Chart](https://www.tradingview.com/chart/?symbol=PACS) | PACS Group, Inc. | PACS |
+| 34 | 76 | $10.71 | [Chart](https://www.tradingview.com/chart/?symbol=DBRG) | DigitalBridge Group, Inc. | DBRG |
+| 33 | 75 | $55.72 | [Chart](https://www.tradingview.com/chart/?symbol=BMRN) | BioMarin Pharmaceuticals Inc | BMRN |
+| 34 | 74 | $10.75 | [Chart](https://www.tradingview.com/chart/?symbol=NAVI) | Navient Corporation | NAVI |
+| 39 | 74 | $64.05 | [Chart](https://www.tradingview.com/chart/?symbol=TXT) | Textron, Inc. | TXT |
+| 32 | 72 | $136.46 | [Chart](https://www.tradingview.com/chart/?symbol=LSTR) | Landstar System Inc | LSTR |
+| 39 | 72 | $10.30 | [Chart](https://www.tradingview.com/chart/?symbol=CSTM) | Constellium SE Class A Ordinary shares | CSTM |
+| 31 | 71 | $28.57 | [Chart](https://www.tradingview.com/chart/?symbol=TPH) | Tri Pointe Homes, Inc. | TPH |
+| 33 | 70 | $24.65 | [Chart](https://www.tradingview.com/chart/?symbol=RAMP) | LiveRamp Holdings, Inc. Common Stock | RAMP |
+| 39 | 69 | $10.88 | [Chart](https://www.tradingview.com/chart/?symbol=LBTYK) | Liberty Global Ltd. Class C Common Shares | LBTYK |
+| 37 | 68 | $10.34 | [Chart](https://www.tradingview.com/chart/?symbol=CMRE) | Costamare Inc. | CMRE |
+| 37 | 68 | $16.74 | [Chart](https://www.tradingview.com/chart/?symbol=CTRI) | Centuri Holdings, Inc. | CTRI |
+| 39 | 68 | $78.69 | [Chart](https://www.tradingview.com/chart/?symbol=ALV) | Autoliv, Inc. | ALV |
+| 37 | 67 | $149.62 | [Chart](https://www.tradingview.com/chart/?symbol=ODFL) | Old Dominion Freight Line | ODFL |
+| 39 | 62 | $34.28 | [Chart](https://www.tradingview.com/chart/?symbol=LIT) | Global X Lithium & Battery Tech ETF | LIT |
 
 ## **Methodology**
 
